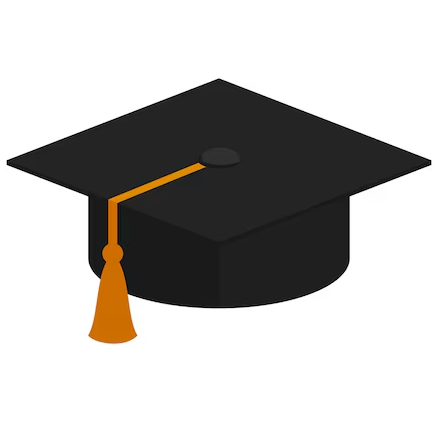
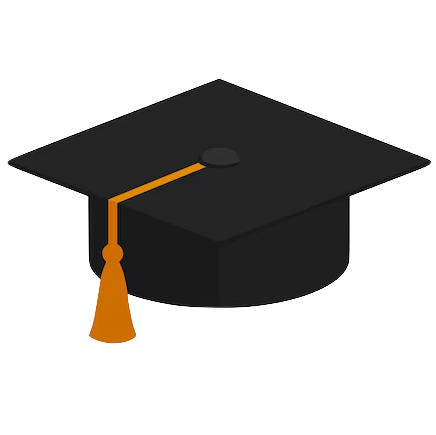
translate more text, fix images background and add animation on loading page

diff --git a/src/components/home/main/projects/projects-info.js b/src/components/home/main/projects/projects-info.js
@@ -3,78 +3,78 @@ export const projectsInfo = {
       internalPage: false,
       cssClassName: "project__cacao-bu",
       link: "https://cacao-bu.netlify.app/",
-      caption: "Online Store on React"
+      caption: "OnlineStoreonReact"
     },
     pianoles: {
       internalPage: false,
       cssClassName: "project__pianoles",
       link: "https://pianoles.netlify.app/",
-      caption: "Multi-language React page"
+      caption: "MultilanguageReactpage"
     },
     wordpressBlog: {
       internalPage: false,
       cssClassName: "project__wordpress-blog",
       link: "https://natkdevtravel.wordpress.com/",
-      caption: "Travel blog on WordPress"
+      caption: "TravelblogonWordPress"
     },    
     smartphone: {
       internalPage: false,
       cssClassName: "project__smartphone",
       link: "https://codepen.io/appalse/full/LvPvbg",
-      caption: "Smartphone rotation"
+      caption: "Smartphonerotation"
     },
     tributePage: {
       internalPage: false,
       cssClassName: "project__tribute-page",
       link: "https://codepen.io/appalse/full/MRmoNg",
-      caption: "Tenzing Norgay tribute page"
+      caption: "TenzingNorgaytributepage"
     },
     memoji: {
       internalPage: true,
       cssClassName: "project__memoji-game",
       link: "/memoji",
-      caption: "Memoji web-game"
+      caption: "Memojiwebgame"
     },
     binaryCalc: {
       internalPage: true,
       cssClassName: "project__binary-calculator",
       link: "/binary-calculator",
-      caption: "Binary calculator online"
+      caption: "Binarycalculatoronline"
     },
     designSystem: {
       internalPage: true,
       cssClassName: "project__design-system",
       link: "/design-system",
-      caption: "Design system"
+      caption: "Designsystem"
     },
     techBlogVue: {
       internalPage: false,
       cssClassName: "project__tech-blog-vue",
       link: "https://tech-blog-vue.netlify.app/",
-      caption: "Tech blog on Vue.JS"
+      caption: "TechblogonVue.JS"
     },
     angularCargo: {
       internalPage: false,
       cssClassName: "project__angular-cargo",
       link: "https://angular-cargo.netlify.app/",
-      caption: "Delivery company website on Angular and Tailwind (only frontend)"
+      caption: "DeliverycompanywebsiteonAngularandTailwind(onlyfrontend)"
     },
     parallaxTailwind: {
       internalPage: false,
       cssClassName: "project__parallax-tailwind",
       link: "https://play.tailwindcss.com/cdMTD7LkOb?layout=preview",
-      caption: "Parallax effect on Tailwind"
+      caption: "ParallaxeffectonTailwind"
     },
     flyerFamilyApp: {
       internalPage: false,
       cssClassName: "project__flyer-family-app",
       link: "https://mmc.neolook.care/",
-      caption: "Information Flyer for Neolook S2S Family"
+      caption: "InformationFlyerforNeolookS2SFamily"
     },
     biebOudersApp: {
       internalPage: false,
       cssClassName: "project__biebouders-app",
       link: "https://biebouders.netlify.app/",
-      caption: "School library app to help register books"
+      caption: "Schoollibraryapptohelpregisterbooks"
     }
   };

diff --git a/src/components/home/main/projects/projects.jsx b/src/components/home/main/projects/projects.jsx
@@ -3,6 +3,9 @@ import Project from "./project/project.jsx";
 import {projectsInfo} from "./projects-info.js";
 import "./projects.css";
 import { motion } from "framer-motion";
+import { useTranslation } from "react-i18next";
+import { selfStudy } from "../../../../assets/index.js";
+import { neolook } from "../../../../assets/index.js";
 
 const containerVariants = {
   hidden: {},
@@ -14,7 +17,28 @@ const containerVariants = {
 };
 
 function Projects() {
-    return (
+  const { t } = useTranslation();
+  return (
+    <>
+      <h3 className="projects__caption">
+        <img className="h-10" src={neolook} alt="Neolook icon" />
+        {t("Workprojects")}
+      </h3>
+      <motion.div className="projects"
+        variants={containerVariants}
+        initial="hidden"
+        whileInView="show"
+        viewport={{ once: true, amount: 0.1 }}
+      >
+        <Project cssClassName={projectsInfo.flyerFamilyApp.cssClassName} 
+                  link={projectsInfo.flyerFamilyApp.link}
+                  caption={projectsInfo.flyerFamilyApp.caption}
+                  internalPage={projectsInfo.flyerFamilyApp.internalPage} /> 
+      </motion.div>	
+      <h3 className="projects__caption mt-10">
+      <img className="h-10" src={selfStudy} alt="Self-study icon" />
+        {t("Selfstudyprojects")}
+      </h3>
       <motion.div className="projects"
         variants={containerVariants}
         initial="hidden"
@@ -26,10 +50,6 @@ function Projects() {
                   link={projectsInfo.biebOudersApp.link}
                   caption={projectsInfo.biebOudersApp.caption}
                   internalPage={projectsInfo.biebOudersApp.internalPage} /> 
-        <Project cssClassName={projectsInfo.flyerFamilyApp.cssClassName} 
-                  link={projectsInfo.flyerFamilyApp.link}
-                  caption={projectsInfo.flyerFamilyApp.caption}
-                  internalPage={projectsInfo.flyerFamilyApp.internalPage} /> 
         <Project cssClassName={projectsInfo.techBlogVue.cssClassName} 
                   link={projectsInfo.techBlogVue.link}
                   caption={projectsInfo.techBlogVue.caption}
@@ -71,12 +91,13 @@ function Projects() {
                   link={projectsInfo.designSystem.link}
                   caption={projectsInfo.designSystem.caption}
                   internalPage={projectsInfo.designSystem.internalPage} /> 
-        {/*<Project cssClassName={projectsInfo.binaryCalc.cssClassName} 
+        <Project cssClassName={projectsInfo.binaryCalc.cssClassName} 
                   link={projectsInfo.binaryCalc.link}
                   caption={projectsInfo.binaryCalc.caption}
-                  internalPage={projectsInfo.binaryCalc.internalPage} /> */}
+                  internalPage={projectsInfo.binaryCalc.internalPage} />
       </motion.div>	
-    );
+    </>
+  );
 }
 
 export default Projects;

diff --git a/src/components/home/main/main.jsx b/src/components/home/main/main.jsx
@@ -5,14 +5,16 @@ import MyBackground from "./my-background/my-background.jsx";
 import Contacts from "./contacts/contacts.jsx";
 import "./main.css";
 import Education from "./education/education.jsx";
+import { useTranslation } from "react-i18next";
 
 function Main() {
+  const { t } = useTranslation();
     return (
         <main className="main">
             <div id="aboutme"></div>
             <section className="main__subsection">
               <h2 className="subsection__heading">
-                Frontend developer
+                {t("FrontendDeveloper")}
                 <img src="frontend-icon-responsive.png" alt="icon with desktop, tablet and smartphone" />
               </h2>
               <AboutMe />
@@ -20,25 +22,25 @@ function Main() {
   
             <div id="projects"></div>
             <section className="main__subsection">	
-              <h2 className="subsection__heading">Projects</h2>
+              <h2 className="subsection__heading">{t("Projects")}</h2>
               <Projects />
             </section>
   
             <div id="experience"></div>
             <section className="main__subsection">
-              <h2 className="subsection__heading">Experience</h2>
+              <h2 className="subsection__heading">{t("Experience")}</h2>
               <MyBackground />
             </section>
   
             <div id="education"></div>
             <section className="main__subsection">
-              <h2 className="subsection__heading">Education</h2>
+              <h2 className="subsection__heading">{t("Education")}</h2>
               <Education />            
             </section>
   
             <div id="contacts"></div>
             <section className="main__subsection">
-              <h2 className="subsection__heading">Contacts</h2>
+              <h2 className="subsection__heading">{t("Contacts")}</h2>
               <Contacts />
             </section>
           </main>

diff --git a/src/components/home/main/about-me/aboutMe.jsx b/src/components/home/main/about-me/aboutMe.jsx
@@ -17,15 +17,9 @@ function AboutMe() {
         <div className="subsection__aboutme">
           <img className="aboutme__photo" src="me.jpeg" alt="website developer" />
           <article className="aboutme__text"> 
-            <p className="aboutme__paragraph">
-            Hello, my name is Natalia.
-I'm a frontend developer passionate about creating clean, user-friendly, and responsive web interfaces.
-I'm working with HTML, CSS, Tailwind CSS, JavaScript, TypeScript, Angular, and React.
-I enjoy building web applications that people find easy to use, and I value being part of projects that have a meaningful impact.
-My recent experience includes developing web applications for the healthcare sector — helping medical staff, children in intensive care units and families stay connected through intuitive, modern interfaces.
-            </p>
+            <p className="aboutme__paragraph">{t("ABOUT_ME.Paragraph1")}</p>
             <p className="aboutme__paragraph">{t("ABOUT_ME.Paragraph2")}</p>
-            <div className="aboutme__skills">
+            <div className="aboutme__skills fade-in-up">
               <div className="aboutme__skill">
                 <IconHtml/>HTML
               </div>

diff --git a/src/components/home/main/projects/project/project.jsx b/src/components/home/main/projects/project/project.jsx
@@ -2,6 +2,7 @@ import React from "react";
 import { Link } from "react-router-dom";
 import "./project.css";
 import { motion } from "framer-motion";
+import { useTranslation } from "react-i18next";
 
 const cardVariants = {
     hidden: { opacity: 0, y: 20 },
@@ -9,6 +10,7 @@ const cardVariants = {
   };
 
 function Project(props) {
+    const { t } = useTranslation();
 
     const cssClassName = ["project", props.cssClassName].join(' ');
 
@@ -20,7 +22,7 @@ function Project(props) {
                         <div className="icon"></div>
                     </Link> :
                     <a href={props.link} title="Click to open in new tab" target="_blank" rel="noreferrer">
-                        <p className="caption project-caption_text-center">{props.caption}</p>
+                        <p className="caption project-caption_text-center">{t(props.caption)}</p>
                         <div className="icon"></div>
                     </a>
                 }

diff --git a/src/components/common-blocks/header/header-button/headerButton.jsx b/src/components/common-blocks/header/header-button/headerButton.jsx
@@ -1,8 +1,10 @@
 import React, { useState } from "react";
 import {headerLightColor, headerHoverButtonEffect, smallScreenWidth} from "../../../home/main/main-constants";
 import "./headerButton.css";
+import { useTranslation } from "react-i18next";
 
 function HeaderButton(props) {
+  const { t } = useTranslation();
   const { id, href, caption, isOpen = false, setIsOpen } = props;
   const [bgColour, setBgColour] = useState(headerLightColor);
   const bgStyles = {
@@ -30,7 +32,7 @@ function HeaderButton(props) {
               setBgColour(headerLightColor);
             }} >
         <a href={props.href} className="text-nowrap">
-            {props.caption}
+            {t(props.caption)}
         </a>
     </button>
   );

diff --git a/src/components/home/main/education/education.jsx b/src/components/home/main/education/education.jsx
@@ -1,7 +1,9 @@
 import React from "react";
 import "./education.css";
+import { useTranslation } from "react-i18next";
 
 function Education() {
+  const { t } = useTranslation();
     return (
       <React.Fragment>
         <div className="subsection__education">
@@ -15,7 +17,7 @@ function Education() {
           </div>
         </div>
 
-        <p className="my-10 text-center text-3xl ">Courses</p>
+        <p className="my-10 text-center text-3xl ">{t("Courses")}</p>
         <div className="subsection__education">
           <div className="education__column">
             <div className="education__years">2019</div>

diff --git a/src/components/home/main/about-me/aboutMe.css b/src/components/home/main/about-me/aboutMe.css
@@ -71,3 +71,21 @@
 	font-size: 14px;
 	text-align: center;
 }
+
+@keyframes fadeInUp {
+	0% {
+	  opacity: 0;
+	  transform: translateY(30px); /* start lower */
+	}
+	100% {
+	  opacity: 1;
+	  transform: translateY(0); /* move to final position */
+	}
+  }
+  
+  .fade-in-up {
+	opacity: 0; /* hidden by default */
+	animation: fadeInUp 0.6s ease-out forwards; /* forwards keeps final state */
+	animation-delay: 0.1s; /* delay in seconds */
+  }
+  

diff --git a/src/components/home/main/projects/projects.css b/src/components/home/main/projects/projects.css
@@ -6,6 +6,11 @@
 	margin: auto;
 }
 
+.projects__caption {
+	@apply text-center text-lg md:text-xl lg:text-2xl mb-8;
+	@apply flex items-center gap-4 justify-center;
+}
+
 @media screen and (max-width: 1200px) {
 	.projects {
 		grid-template-columns: minmax(0, 1fr) minmax(0, 1fr) minmax(0, 1fr);

diff --git a/src/components/common-blocks/header/header-buttons-info.js b/src/components/common-blocks/header/header-buttons-info.js
@@ -2,7 +2,7 @@ export const headerButtonsInfo = {
     aboutMe: {
         id: "header-btn-about",
         href: "#aboutme",
-        caption: "About me"
+        caption: "AboutMe"
     },
     projects: {
         id: "header-btn-projects",

diff --git a/src/i18n.js b/src/i18n.js
@@ -21,7 +21,7 @@ i18n
     interpolation: {
       escapeValue: false // react already escapes
     },
-    debug: true,
+    //debug: true,
   });
 
 export default i18n;
